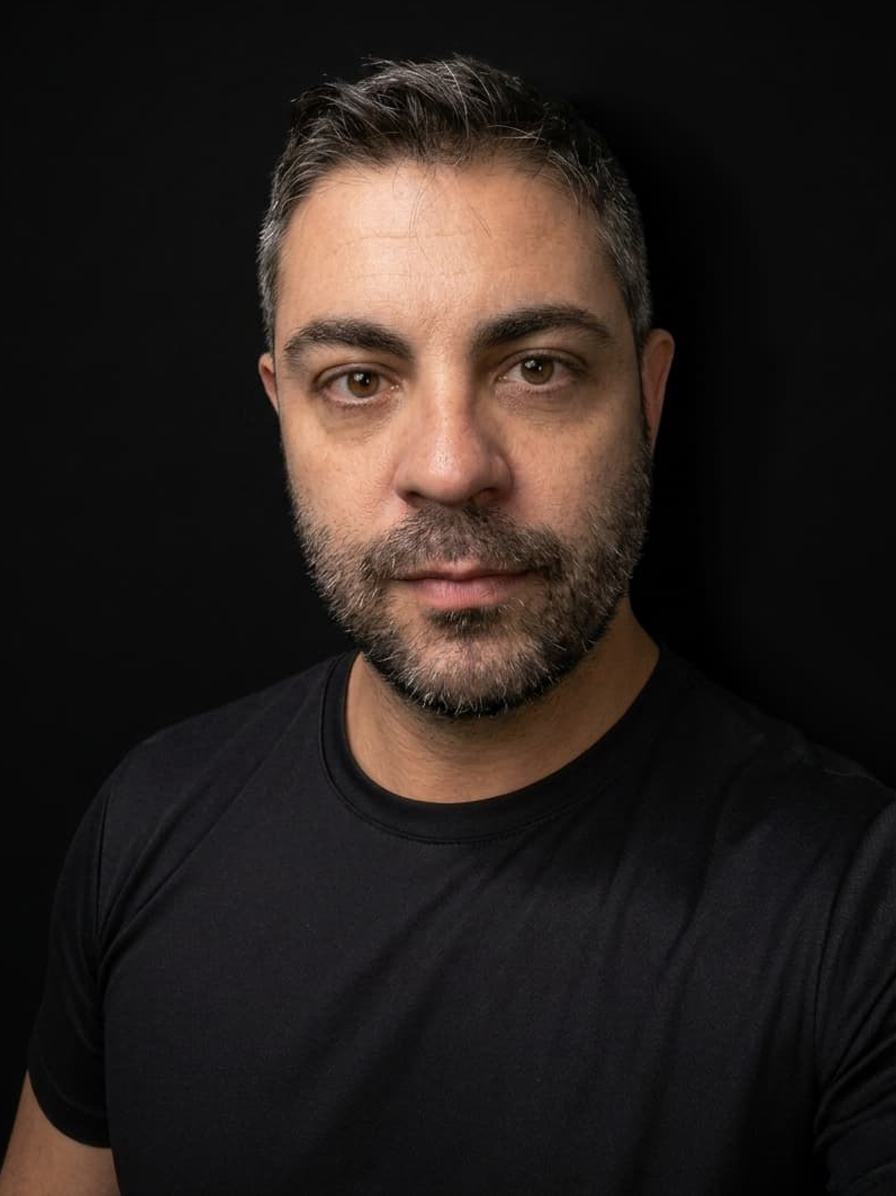
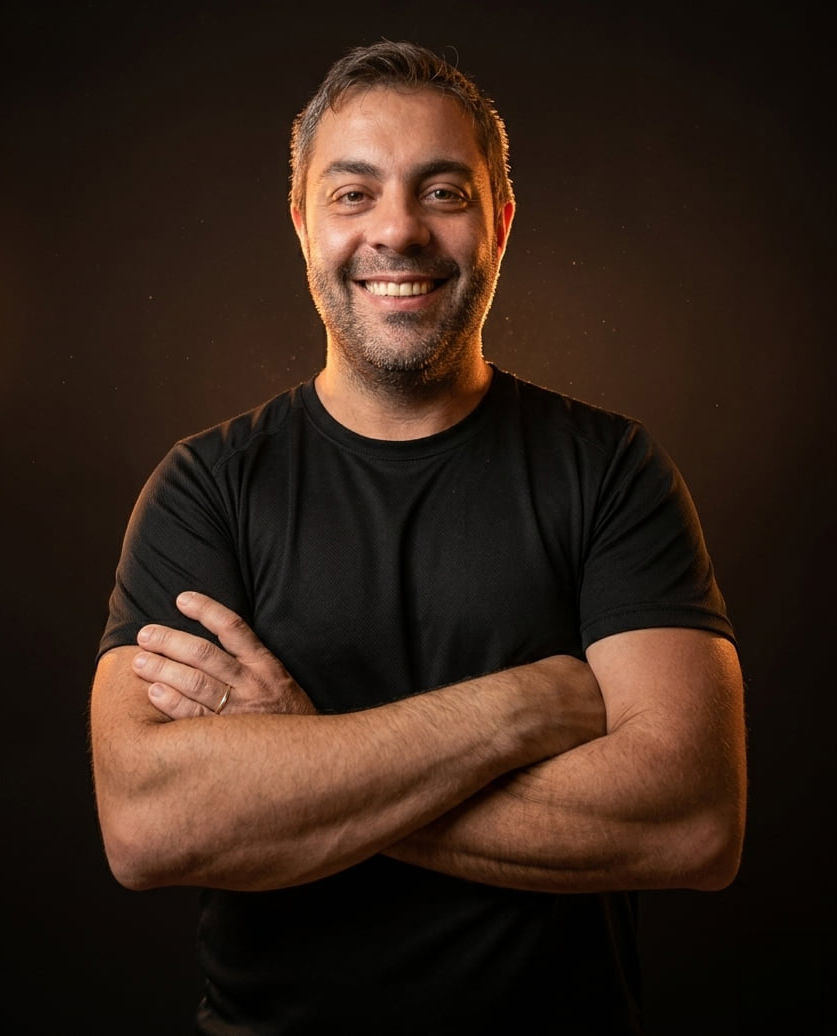
alteração foto
alteração foto, alteração aba produtos digitais, link pagamento incluso

diff --git a/index.html b/index.html
@@ -435,18 +435,78 @@ Hoje trabalho com atendimento personalizado, focado na sua realidade, no seu obj
   <div class="section-title">Planos e Valores</div>
 
   <div class="tab-switcher">
-    <button class="tab-btn active" onclick="switchTab('presencial', this)">
+    <button class="tab-btn active" onclick="switchTab('digital', this)">
+      <span class="tab-icon">📦</span> Produtos Digitais
+    </button>
+    <button class="tab-btn" onclick="switchTab('presencial', this)">
       <span class="tab-icon">📍</span> Presencial
     </button>
     <button class="tab-btn" onclick="switchTab('online', this)">
       <span class="tab-icon">💻</span> Online
     </button>
-    <button class="tab-btn" onclick="switchTab('digital', this)">
-      <span class="tab-icon">📦</span> Produtos Digitais
-    </button>
   </div>
 
-  <div class="tab-content active" id="tab-presencial">
+  <!-- ABA DIGITAL -->
+  <div class="tab-content active" id="tab-digital">
+    <div class="products-grid">
+
+      <!-- PRODUTO 1 — FULLBODY -->
+      <div class="product-card">
+        <div class="product-badge">Treino em Casa incluso</div>
+        <div class="product-name">Treino FullBody</div>
+        <div class="product-price"><sup>R$</sup>55 <span style="font-size:16px; font-weight:300; color:var(--muted); font-family:'DM Sans',sans-serif;">cada</span></div>
+        <p class="product-desc">Planilha completa de treino FullBody para academia. Inclui também treino em casa. Escolha a versão ideal para você:</p>
+        <ul class="product-features">
+          <li>Treino FullBody completo</li>
+          <li>Progressão de cargas</li>
+          <li>Treino em casa incluso</li>
+          <li>Versões masculina e feminina</li>
+        </ul>
+        <div style="display:flex; flex-direction:column; gap:10px; margin-top:auto;">
+          <a href="https://pay.kiwify.com.br/tvF58zl" target="_blank" class="btn-product-ghost" style="justify-content:center; text-align:center;">
+            ♂ Versão Masculina
+          </a>
+          <a href="https://pay.kiwify.com.br/tTpMi9C" target="_blank" class="btn-product-ghost" style="justify-content:center; text-align:center;">
+            ♀ Versão Feminina
+          </a>
+        </div>
+      </div>
+
+      <!-- PRODUTO 2 — PLANILHA -->
+      <div class="product-card featured">
+        <div class="product-badge">Mais popular</div>
+        <div class="product-name">Planilha Noffs Personalizada</div>
+        <div class="product-price"><sup>R$</sup>37</div>
+        <p class="product-desc">Planilha Google Sheets/Excel interativa. O aluno preenche seu perfil e o treino se adapta ao nível e objetivo dele.</p>
+        <ul class="product-features">
+          <li>Formulário de perfil (nível, objetivo, dias)</li>
+          <li>3 níveis: iniciante, intermediário, avançado</li>
+          <li>12 semanas de periodização</li>
+          <li>Registro de evolução de carga</li>
+        </ul>
+        <a href="https://pay.kiwify.com.br/DNIxAXg" target="_blank" class="btn-product">Adquirir agora</a>
+      </div>
+
+      <!-- PRODUTO 3 — PROTOCOLO 90 DIAS -->
+      <div class="product-card">
+        <div class="product-badge">Premium</div>
+        <div class="product-name">Protocolo 90 Dias</div>
+        <div class="product-price"><sup>R$</sup>47</div>
+        <p class="product-desc">Protocolo em etapas com 3 fases de 30 dias cada. Progressão estruturada do iniciante ao intermediário.</p>
+        <ul class="product-features">
+          <li>Fase 1: adaptação (dias 1–30)</li>
+          <li>Fase 2: progressão (dias 31–60)</li>
+          <li>Fase 3: intensificação (dias 61–90)</li>
+          <li>Checklist semanal de progresso</li>
+          <li>Guia de suplementação básica</li>
+        </ul>
+        <a href="https://pay.kiwify.com.br/tR4kZab" target="_blank" class="btn-product-ghost">Adquirir agora</a>
+      </div>
+
+    </div>
+  </div>
+
+  <div class="tab-content" id="tab-presencial">
     <div class="plans-grid">
       <div class="plan-card">
         <div class="plan-name">1x por semana</div>
@@ -492,7 +552,7 @@ Hoje trabalho com atendimento personalizado, focado na sua realidade, no seu obj
         <div class="plan-period">por mês</div>
         <div class="plan-desc" style="margin-top:12px;">Treino personalizado para alcançar seus objetivos.</div>
         <ul class="plan-features">
-          <li>Treino personalizada</li>
+          <li>Treino personalizado</li>
           <li>Ajustes mensais</li>
           <li>Suporte via WhatsApp</li>
         </ul>
@@ -518,56 +578,6 @@ Hoje trabalho com atendimento personalizado, focado na sua realidade, no seu obj
           <span class="online-info-value">WhatsApp com resposta em até 24h úteis</span>
         </div>
       </div>
-    </div>
-  </div>
-
-  <!-- ABA DIGITAL -->
-  <div class="tab-content" id="tab-digital">
-    <div class="products-grid">
-
-      <div class="product-card">
-        <div class="product-badge">Entrada</div>
-        <div class="product-name">Protocolo Definição</div>
-        <div class="product-price"><sup>R$</sup>27</div>
-        <p class="product-desc">PDF com 4 semanas de treino focado em emagrecimento e definição muscular. Fixo, mesmo para todos.</p>
-        <ul class="product-features">
-          <li>Treino A/B/C (3×/semana)</li>
-          <li>Guia de execução dos exercícios</li>
-          <li>Dicas de nutrição básica</li>
-          <li>Tabela de progressão de carga</li>
-        </ul>
-        <a href="LINK_KIWIFY_PRODUTO1" target="_blank" class="btn-product-ghost">Adquirir agora</a>
-      </div>
-
-      <div class="product-card featured">
-        <div class="product-badge">Mais popular</div>
-        <div class="product-name">Planilha Noffs Personalizada</div>
-        <div class="product-price"><sup>R$</sup>37</div>
-        <p class="product-desc">Planilha Google Sheets/Excel interativa. O aluno preenche seu perfil e o treino se adapta ao nível e objetivo dele.</p>
-        <ul class="product-features">
-          <li>Formulário de perfil (nível, objetivo, dias)</li>
-          <li>3 níveis: iniciante, intermediário, avançado</li>
-          <li>12 semanas de periodização</li>
-          <li>Registro de evolução de carga</li>
-        </ul>
-        <a href="LINK_KIWIFY_PRODUTO2" target="_blank" class="btn-product">Adquirir agora</a>
-      </div>
-
-      <div class="product-card">
-        <div class="product-badge">Premium</div>
-        <div class="product-name">Protocolo 90 Dias</div>
-        <div class="product-price"><sup>R$</sup>47</div>
-        <p class="product-desc">Protocolo em etapas com 3 fases de 30 dias cada. Progressão estruturada do iniciante ao intermediário.</p>
-        <ul class="product-features">
-          <li>Fase 1: adaptação (dias 1–30)</li>
-          <li>Fase 2: progressão (dias 31–60)</li>
-          <li>Fase 3: intensificação (dias 61–90)</li>
-          <li>Checklist semanal de progresso</li>
-          <li>Guia de suplementação básica</li>
-        </ul>
-        <a href="LINK_KIWIFY_PRODUTO3" target="_blank" class="btn-product-ghost">Adquirir agora</a>
-      </div>
-
     </div>
   </div>
 